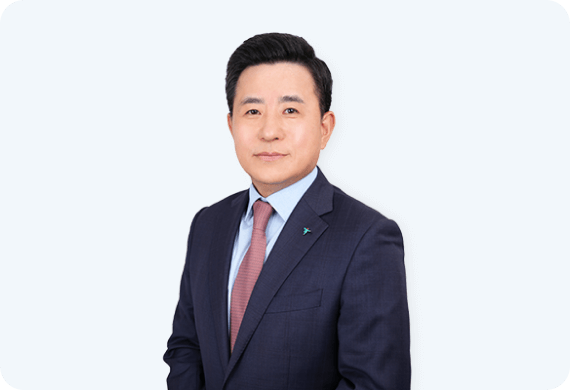
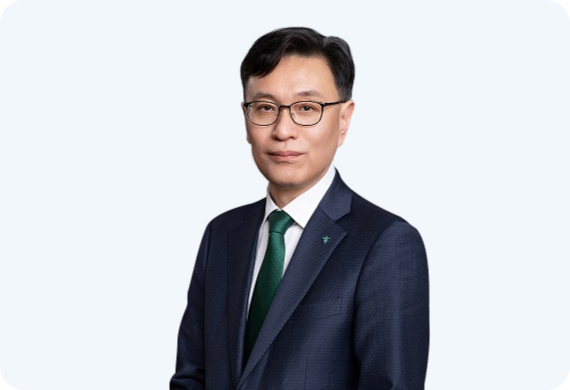
CEO 소개페이지 수정

Changed region(s): [[0.2684, 0.0615, 0.7754, 1.0]]

diff --git a/src/views/company/Company_P01_p002.vue b/src/views/company/Company_P01_p002.vue
@@ -49,22 +49,22 @@ export default {
     <div :class="$style['ceo-layout']">
       <div :class="$style['ceo-layout__item']">
         <p class="row-margin-item-group">
-          하나캐피탈을 사랑하고 성원해주시는 손님 여러분!<br />
-          안녕하십니까? 대표이사 박승오입니다.
+          존경하는 하나캐피탈 손님 여러분,<br />
+          안녕하십니까? 대표이사 김용석입니다.
         </p>
         <p class="row-margin-item-group">
-          하나금융그룹의 하나캐피탈은 ‘함께 성장하며 행복을 나누는 금융’ 이라는
-          그룹의 미션과 같이 모두의 행복 가치를 높이기 위해 손님이 필요로 하는
-          금융서비스를 제공하고자 끊임없이 노력해왔습니다.
+          하나캐피탈은 하나금융그룹의 미션인 ‘함께 성장하며 행복을 나누는
+          금융’을 실천하며,<br />  손님 여러분께 필요한 금융서비스를 제공하기
+          위해 끊임없이 노력하고 있습니다.
         </p>
         <p class="row-margin-item-group">
-          모든 임직원이 도덕성과 책임감을 바탕으로 손님과 함께 성장하며 행복을
-          나누는 금융을 실현하기 위해 윤리경영을 적극적으로 실천하고 있습니다.
+          저희 임직원들은 도덕성과 책임감을 바탕으로, 손님과 함께 성장하며<br />
+          행복을 만들어가는 금융을 이루기 위해 윤리경영을 실천하고 있습니다.
         </p>
         <p class="row-margin-item-group">
-          손님의 행복을 최우선으로 생각하며, 하나캐피탈은 손님이 원하는 금융으로
-          다가가 손님과 함께 성장하는 파트너가 되고자 오늘도 한걸음 더
-          뛰겠습니다.
+          손님의 행복을 최우선으로 삼는 하나캐피탈은<br />
+          항상 손님의 곁에서 믿음직한 금융 파트너로 함께 걸어가겠습니다.<br />오늘도
+          한 걸음 더 나아가는 마음으로 최선을 다하겠습니다.
         </p>
         <p class="row-margin-item-group">감사합니다.</p>
 
@@ -74,7 +74,7 @@ export default {
           >
             하나캐피탈 ㈜ 대표이사
           </p>
-          <p class="text-body-3 font-weight-medium">박승오</p>
+          <p class="text-body-3 font-weight-medium">김용석</p>
         </div>
       </div>
 
